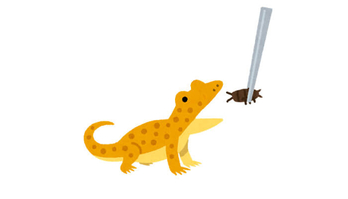
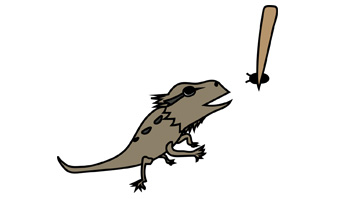
画像差し替えなど

Changed region(s): [[0.1437, 0.0302, 0.8046, 0.9648]]

diff --git a/info/2017/2.html b/info/2017/2.html
@@ -1,27 +1,25 @@
 <!DOCTYPE html>
 <html lang="ja">
-
 <head>
-
   <meta charset="utf-8">
   <meta name="viewport" content="width=device-width, initial-scale=1, shrink-to-fit=no">
   <meta http-equiv="X-UA-Compatible" content="IE=edge">
-  <meta name="description" content="ペットシッターを派遣しております東京エキゾチックシッターのからのお知らせ一覧です。">
+  <meta name="description" content="お知らせ1">
   <meta name="author" content="">
   <meta name="keywords" content="ペットシッター,東京,八王子市,町田市,多摩市,調布市,稲城市,府中市,都内,エキゾチックアニマル,フクロウ,オウム,インコ,ウサギ,爬虫類,小動物,長期,比較,口コミ,ランキング">
   <!-- ogp -->
-  <meta property="og:title" content="お知らせ一覧 | 東京エキゾチックシッター" />
+  <meta property="og:title" content="お知らせ1 | 東京エキゾチックシッター" />
   <meta property="og:type" content="website" /> <!--またはwebsite, blog-->
   <meta property="og:url" content="https://ex-sitter.tokyo/index.html" />
   <meta property="og:image" content="https://ex-sitter.tokyo/images/about/about01.jpg" />
   <meta property="og:sitename" content="エキゾチックアニマル対応可能なペットシッター | 東京エキゾチックシッター" />
-  <meta property="og:description" content="東京エキゾチックシッターからのお知らせ一覧です。" />
+  <meta property="og:description" content="お知らせ1" />
   <!-- twitter -->
   <meta name="twitter:card" content="summary_large_image">
   <meta name="twitter:title" content="東京エキゾチックシッター">
-  <meta name="twitter:description" content="東京エキゾチックシッターからのお知らせ一覧です。">
+  <meta name="twitter:description" content="お知らせ1">
   <meta name="twitter:image" content="https://ex-sitter.tokyo/images/about/about01.jpg">
-  <title>お知らせ一覧 | 東京エキゾチックシッター</title>
+  <title>お知らせ1 | 東京エキゾチックシッター</title>
 
   <!-- Bootstrap core CSS -->
   <link href="/vendor/bootstrap/css/bootstrap.min.css" rel="stylesheet">
@@ -32,10 +30,10 @@
   <link rel="stylesheet" href="//cdnjs.cloudflare.com/ajax/libs/aos/2.1.1/aos.css" async>
   <!-- FontAwesome -->
   <link href="https://maxcdn.bootstrapcdn.com/font-awesome/4.7.0/css/font-awesome.min.css" rel="stylesheet">
-  <!--webfont-->
-  <script type="text/javascript" src="//typesquare.com/accessor/script/typesquare.js?9wDRhVVyNVQ%3D" charset="utf-8"></script>
   <!-- smallchat -->
   <script src="https://embed.small.chat/T6S8FS1B9G6WA54GQM.js" async></script>
+  <!--webfont-->
+  <script type="text/javascript" src="//typesquare.com/accessor/script/typesquare.js?9wDRhVVyNVQ%3D" charset="utf-8"></script>
   <script>
   (function(i,s,o,g,r,a,m){i['GoogleAnalyticsObject']=r;i[r]=i[r]||function(){
     (i[r].q=i[r].q||[]).push(arguments)},i[r].l=1*new Date();a=s.createElement(o),
@@ -85,82 +83,52 @@
       </div>
     </div>
   </nav>
-
   <!-- Page Content -->
   <div class="container">
     <!-- Page Heading/Breadcrumbs -->
-    <h1 class="mt-4 mb-3">おしらせ一覧
+    <h1 class="mt-4 mb-3">
+      Webページ開設しました
     </h1>
 
     <ol class="breadcrumb">
       <li class="breadcrumb-item">
-        <a href="/index.html">Home</a>
+        <a href="/index.html">トップページ</a>
       </li>
-      <li class="breadcrumb-item active">お知らせ一覧</li>
+      <li class="breadcrumb-item">
+        <a href="/info/index.html">お知らせ</a>
+      </li>
+      <li class="breadcrumb-item active">Webページ開設しました</li>
     </ol>
-    <h2>2017</h2>
-    <!-- Blog Post
-    <div class="card mb-4">
-      <div class="card-body">
-        <div class="row">
-          <div class="col-lg-6">
-            <a href="/info/2017/2.html">
-              <img class="img-fluid rounded" src="http://placehold.it/750x300" alt="">
-            </a>
-          </div>
-          <div class="col-lg-6">
-            <h2 class="card-title">おしらせ2</h2>
-            <p class="card-text">ほげほげほげほげ</p>
-            <a href="/info/2017/2.html" class="btn btn-primary">続きを読む &rarr;</a>
-          </div>
-        </div>
-      </div>
-      <div class="card-footer text-muted">
-        2017/8/31
-      </div>
-    </div>
--->
-    <!-- Blog Post -->
-    <div class="card mb-4">
-      <div class="card-body">
-        <div class="row">
-          <div class="col-lg-6">
-            <a href="/info/2017/1.html">
-              <img class="img-fluid rounded" src="/images/about/about01.jpg" alt="">
-            </a>
-          </div>
-          <div class="col-lg-6">
-            <h2 class="card-title">Webページ開設しました</h2>
-            <p class="card-text">Webページ開設しました</p>
-            <a href="/info/2017/1.html" class="btn btn-primary">続きを読む &rarr;</a>
-          </div>
-        </div>
-      </div>
-      <div class="card-footer text-muted">
-        2017/8/30
-      </div>
-    </div>
 
-    <!-- Blog Post -->
-    <div class="card mb-4">
-      <div class="card-body">
-        <div class="row">
-          <div class="col-lg-6">
-            <a href="/info/2017/1.html">
-              <img class="img-fluid rounded" src="/images/info/info02.jpg" alt="">
-            </a>
-          </div>
-          <div class="col-lg-6">
-            <h2 class="card-title">コラム　インコについて</h2>
-            <p class="card-text">コラム　インコについて</p>
-            <a href="/info/2017/2.html" class="btn btn-primary">続きを読む &rarr;</a>
-          </div>
-        </div>
+    <div class="row">
+
+      <!-- Post Content Column -->
+      <div class="col-lg-12">
+
+        <!-- Preview Image -->
+        <img class="img-fluid rounded" src="images/info/info02.jpg" alt="">
+
+        <hr>
+
+        <!-- Date/Time -->
+        <p>2017/10/01</p>
+
+        <hr>
+
+        <!-- Post Content -->
+        <p class="lead">Webページ開設しました</p>
+
+        <p>初めまして。こちらのページご覧頂きまして、ありがとうございます。<br>
+        「犬猫以外」のペットシッターとして開業いたしました東京エキゾシッターです。
+        こちらのWebページにて新しい情報を掲載していきます。
+        </p>
+        <p>また、当サイトの制作にあたり、ご協力いただいた皆様には感謝申し上げます。
+        </p>
+
       </div>
-      <div class="card-footer text-muted">
-        2017/8/30
-      </div>
+
     </div>
+    <!-- /.row -->
 
   </div>
   <!-- /.container -->
@@ -231,10 +199,19 @@
           "@id": "https://ex-sitter.tokyo/info/",
           "name": "お知らせ一覧"
         }
+      },
+      {
+        "@type": "ListItem",
+        "position": 3,
+        "item":
+        {
+          "@id": "https://ex-sitter.tokyo/info/2017/1.html",
+          "name": "お知らせ1"
+        }
       }
-    ]
-  }
-  </script>
+  ]
+}
+</script>
 </body>
 
 </html>
